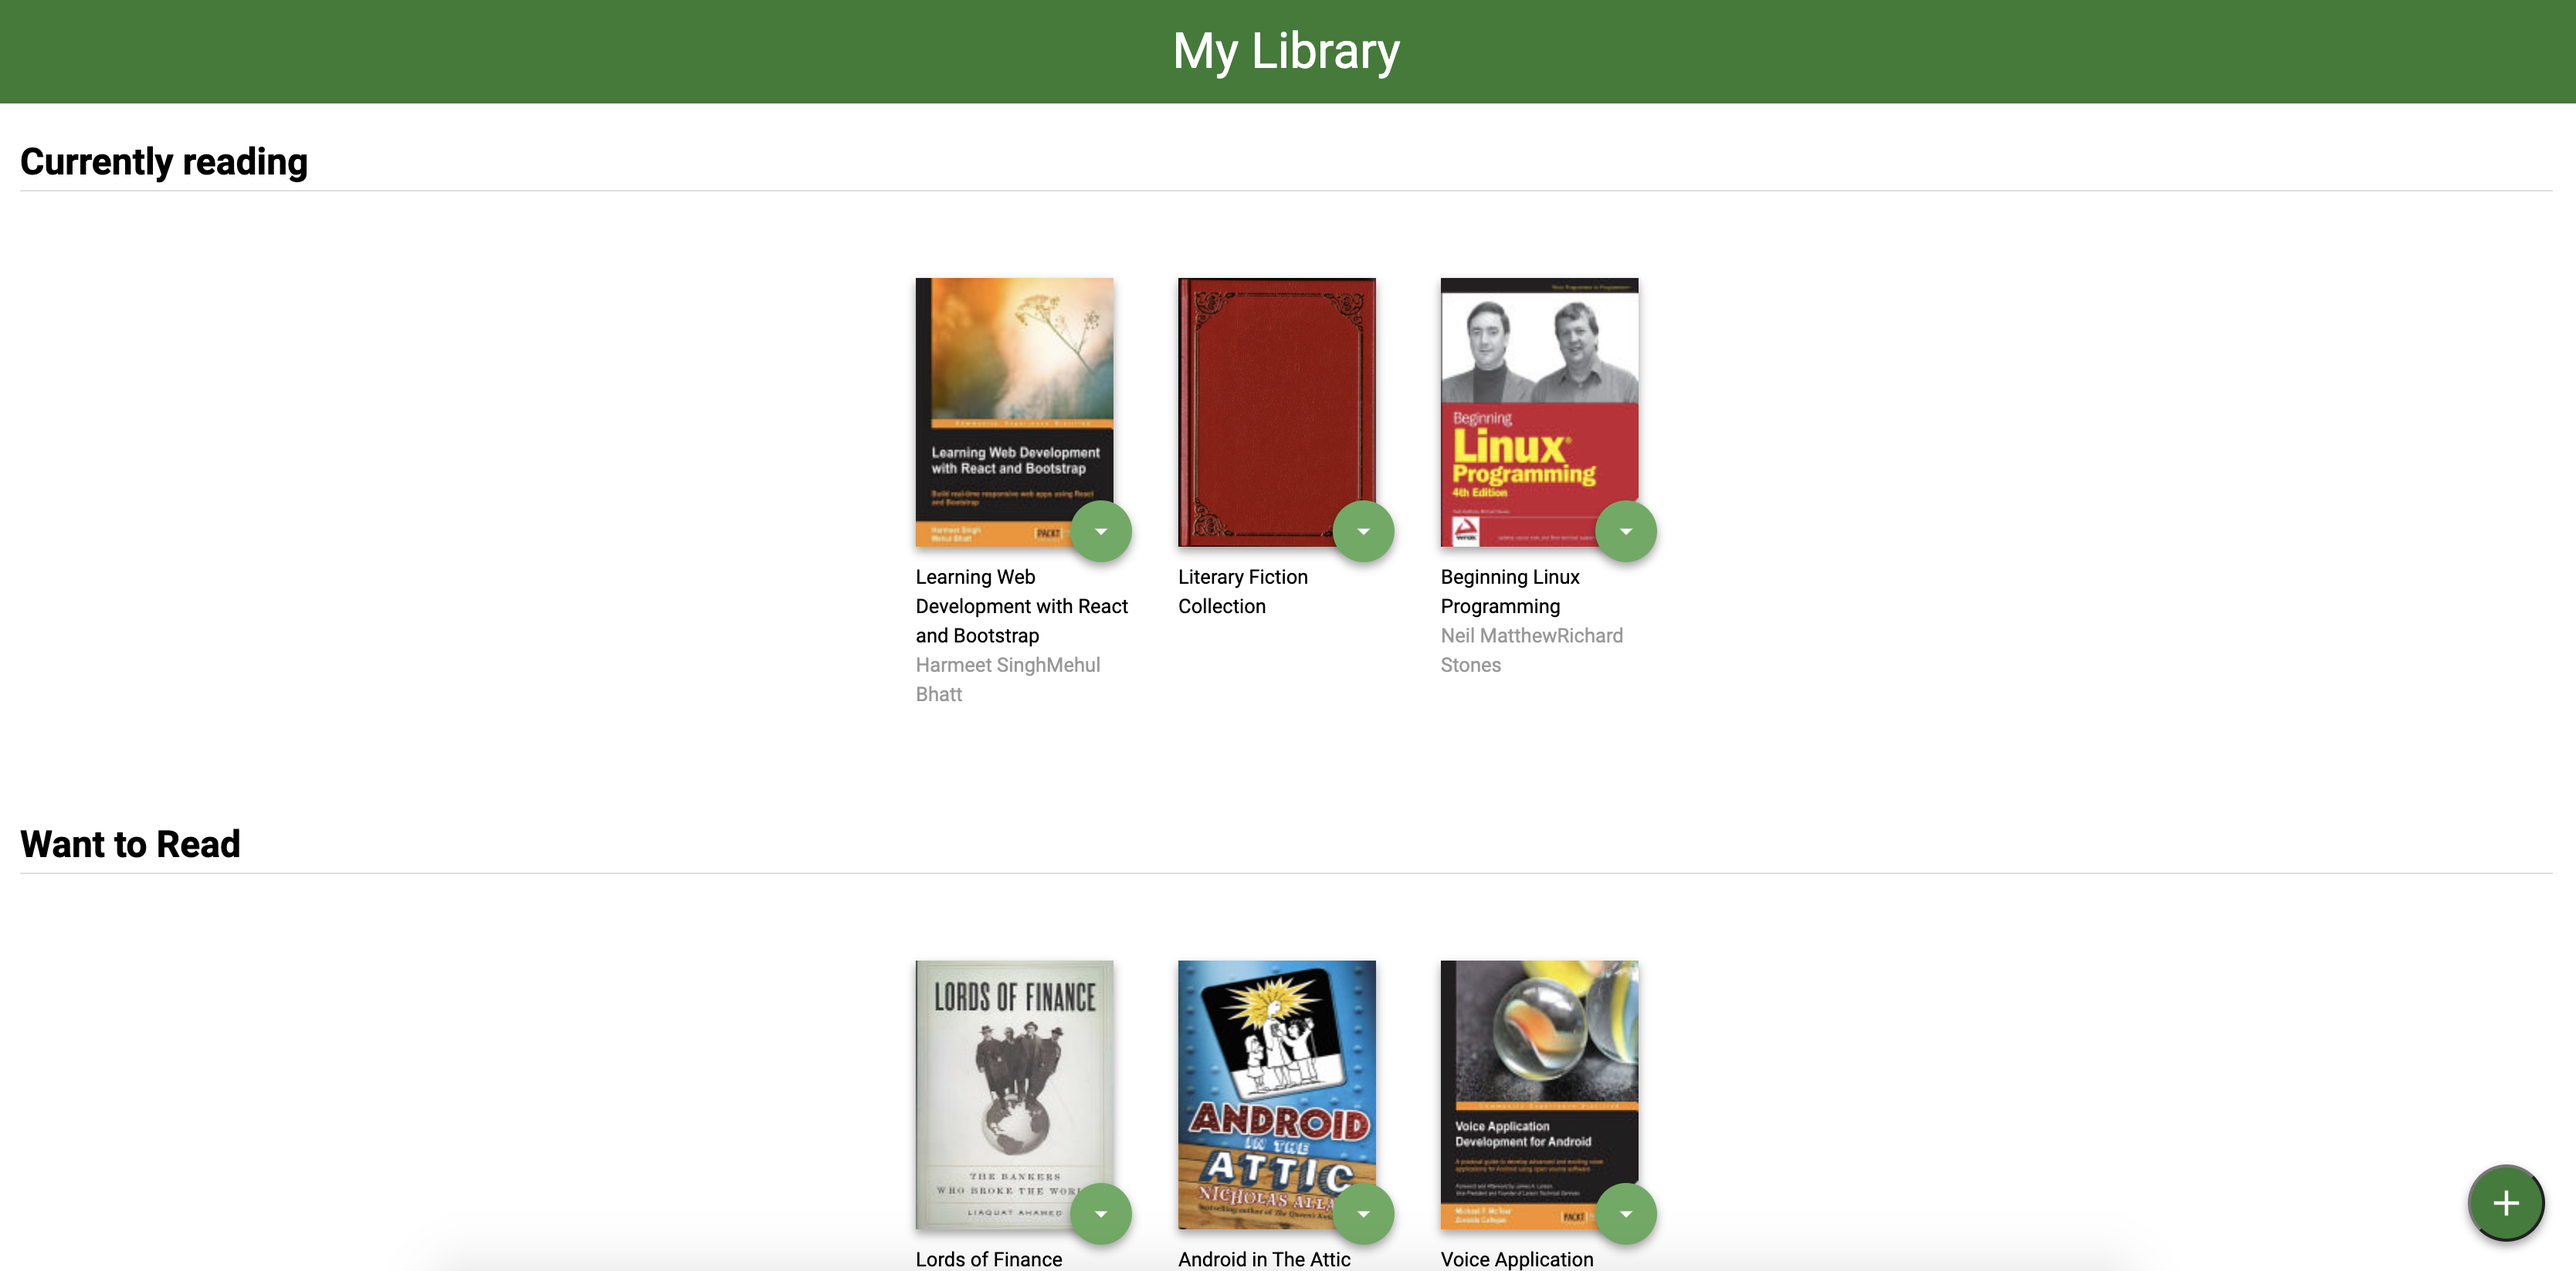
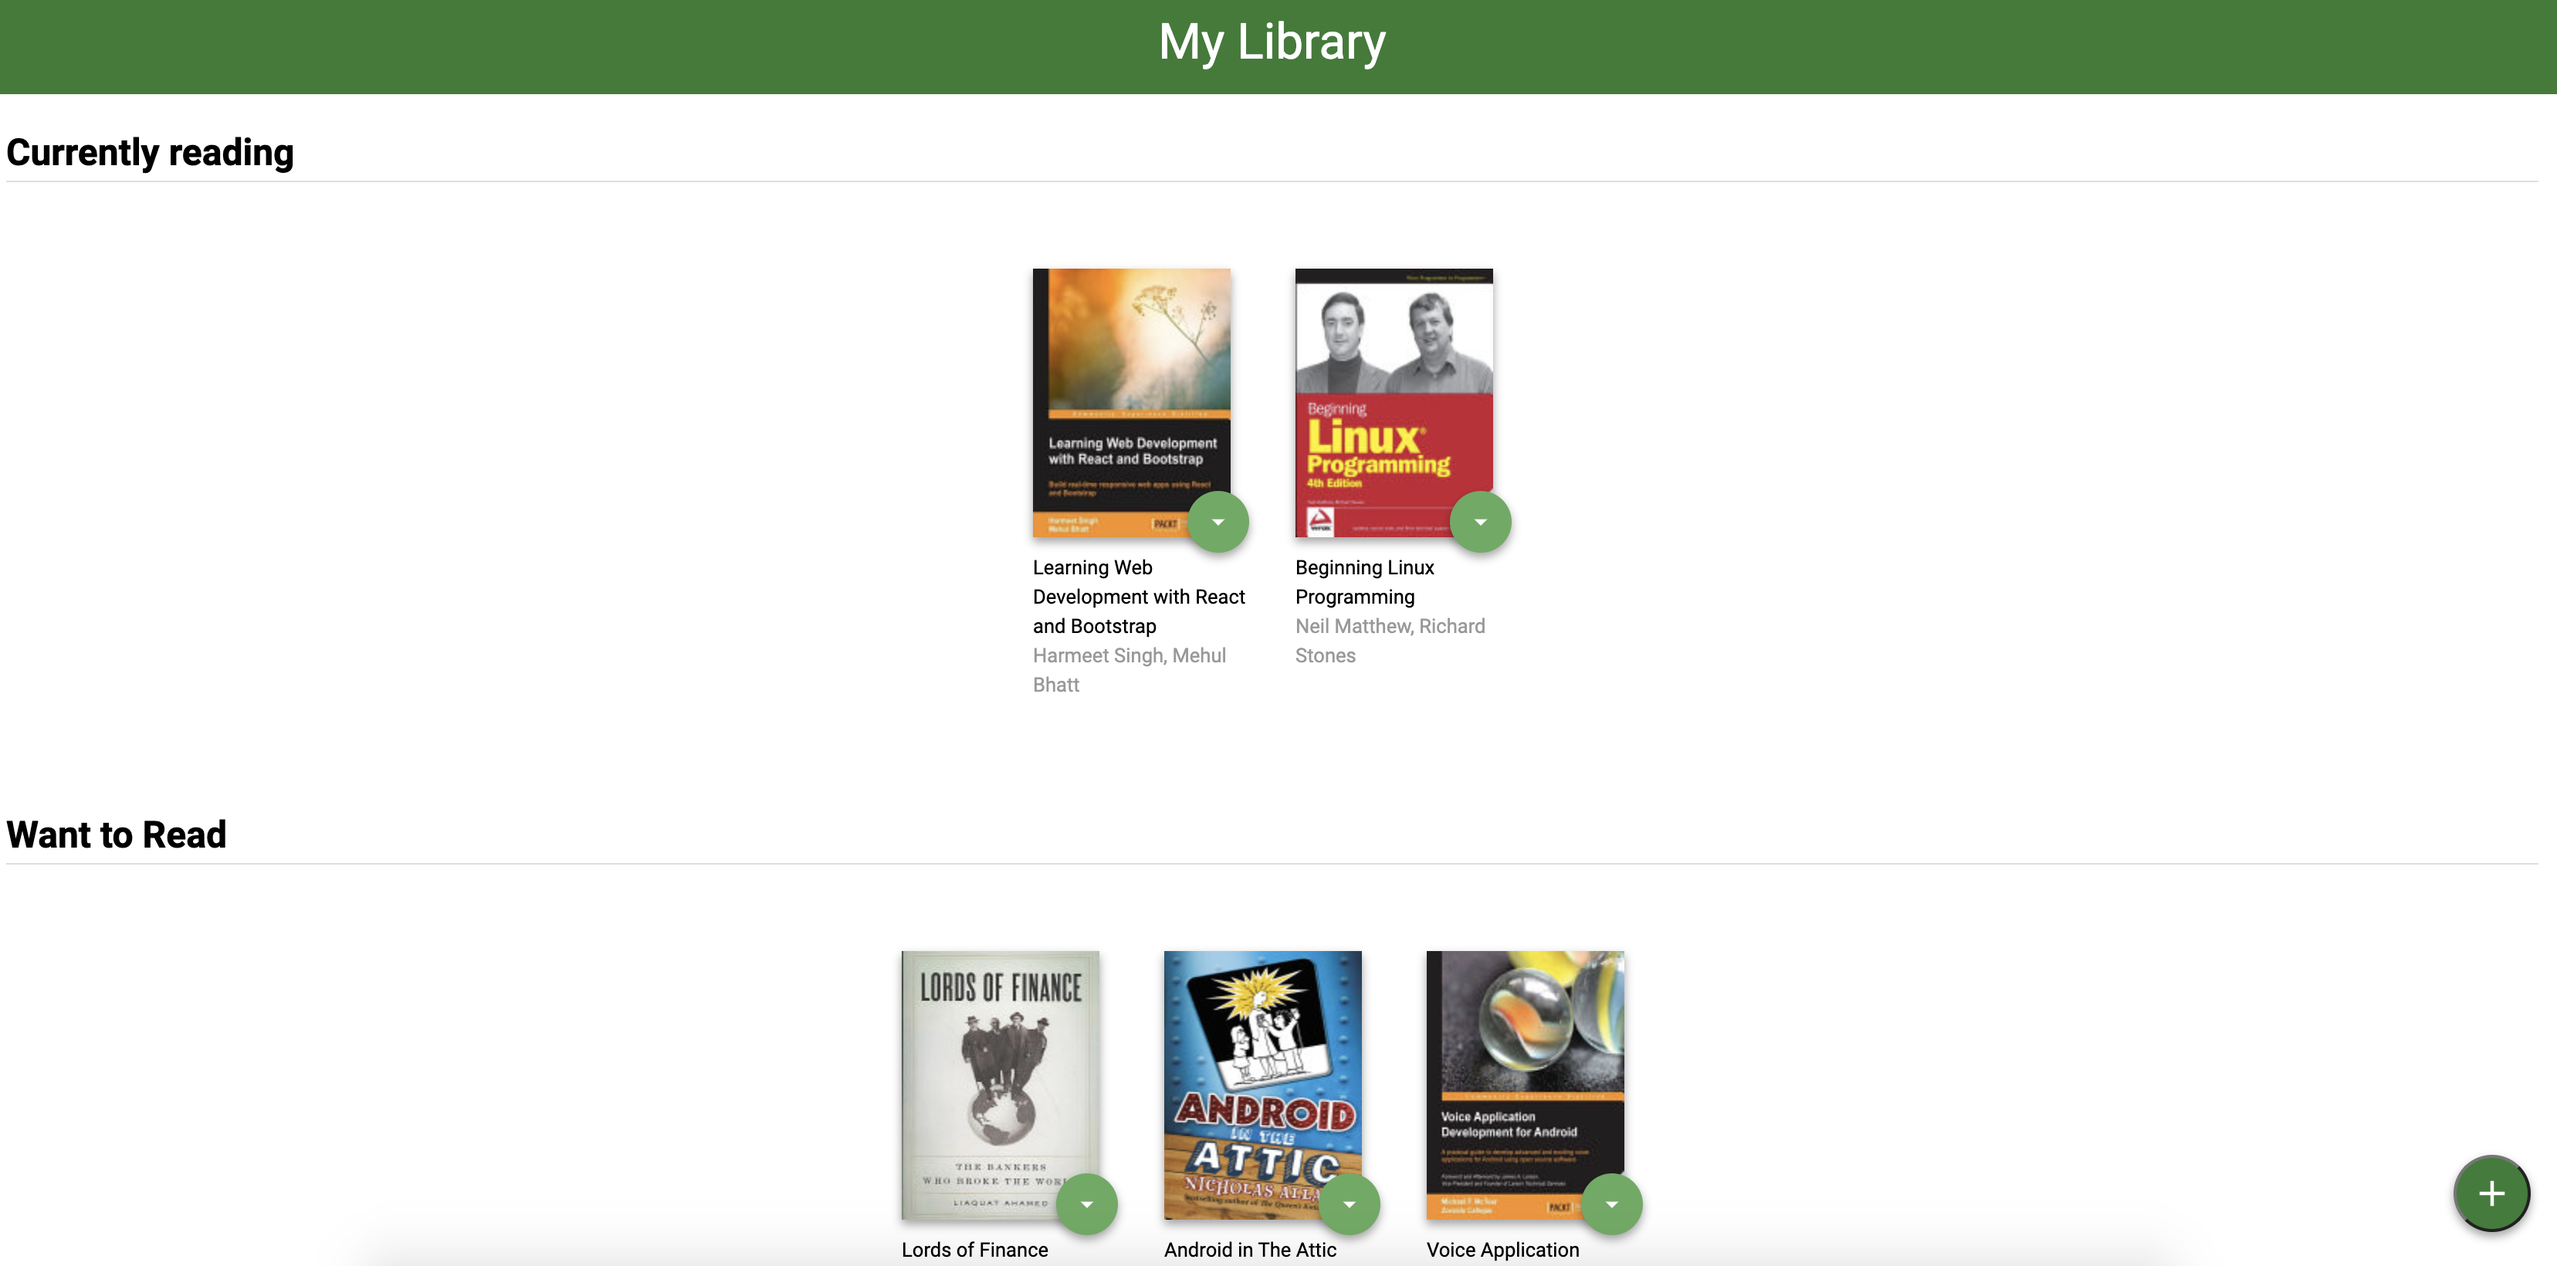
Rendering authors properly

diff --git a/src/components/Book.js b/src/components/Book.js
@@ -7,6 +7,13 @@ class Book extends Component {
     onShelfChange: PropTypes.func.isRequired,
   };
 
+  getAuthors = (authors) => {
+    if (authors) {
+    return authors.join(', ')
+    }
+    return ''
+  }
+
   render() {
     const { book, onShelfChange } = this.props;
 
@@ -38,7 +45,7 @@ class Book extends Component {
           </div>
         </div>
         <div className="book-title">{book.title}</div>
-        <div className="book-authors">{book.authors}</div>
+        <div className="book-authors">{this.getAuthors(book.authors)}</div>
       </div>
     );
   }
